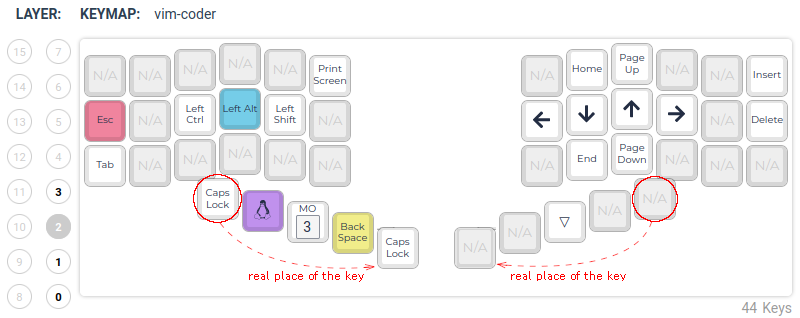
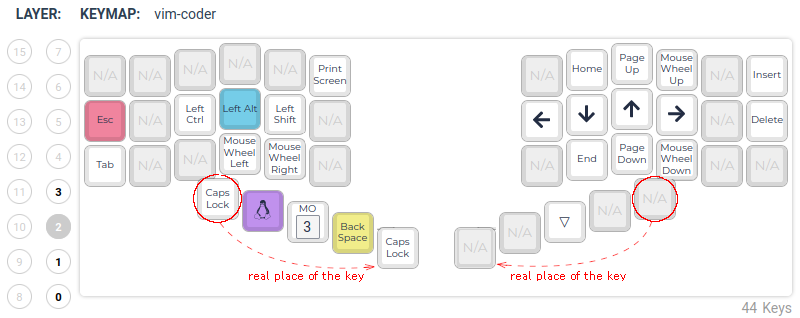
Add mouse wheel keys

Changed region(s): [[0.2812, 0.3962, 0.375, 0.5943], [0.8125, 0.4528, 0.875, 0.566], [0.8125, 0.1698, 0.875, 0.283]]

diff --git a/keyboards/elcantorhs/keymaps/vim-coder/keymap.c b/keyboards/elcantorhs/keymaps/vim-coder/keymap.c
@@ -16,15 +16,15 @@ const uint16_t PROGMEM keymaps[][MATRIX_ROWS][MATRIX_COLS] = {
                                        KC_NO,        KC_NO,        KC_TRNS,      KC_NO,   /* | */    KC_SPC,       MO(3),        KC_ENT,       KC_MINS
     ),
     [2] = LAYOUT(
-        KC_NO,          KC_NO,         KC_NO,        KC_NO,        KC_NO,        KC_PSCR, /* | */    KC_NO,        KC_HOME,      KC_PGUP,      KC_NO,        KC_NO,        KC_INS,
+        KC_NO,          KC_NO,         KC_NO,        KC_NO,        KC_NO,        KC_PSCR, /* | */    KC_NO,        KC_HOME,      KC_PGUP,      KC_WH_U,      KC_NO,        KC_INS,
         KC_ESC,         KC_NO,         KC_LCTL,      KC_LALT,      KC_LSFT,      KC_NO,   /* | */    KC_LEFT,      KC_DOWN,      KC_UP,        KC_RGHT,      KC_NO,        KC_DEL,
-        KC_TAB,         KC_NO,         KC_NO,        KC_NO,        KC_NO,        KC_NO,   /* | */    KC_NO,        KC_END,       KC_PGDN,      KC_NO,        KC_NO,        KC_NO,
+        KC_TAB,         KC_NO,         KC_NO,        KC_WH_L,      KC_WH_R,      KC_NO,   /* | */    KC_NO,        KC_END,       KC_PGDN,      KC_WH_D,      KC_NO,        KC_NO,
                                        KC_CAPS,      KC_LGUI,      MO(3),        KC_BSPC, /* | */    KC_NO,        KC_TRNS,      KC_NO,        KC_NO
     ),
     [3] = LAYOUT(
         KC_F1,          KC_F2,         KC_F3,        KC_F4,        KC_F5,        KC_F6,   /* | */    KC_F7,        KC_F8,        KC_F9,        KC_F10,       KC_F11,       KC_F12,
         KC_ESC,         KC_LGUI,       KC_LCTL,      KC_LALT,      KC_LSFT,      KC_NO,   /* | */    KC_NO,        KC_RSFT,      KC_RALT,      KC_RCTL,      KC_RGUI,      KC_NO,
         KC_TAB,         KC_NO,         KC_NO,        KC_NO,        KC_NO,        KC_NO,   /* | */    KC_NO,        KC_NO,        KC_NO,        KC_NO,        KC_NO,        KC_NO,
-                                       KC_NO,        KC_NO,        KC_TRNS,      KC_NO,   /* | */    KC_NO,        KC_TRNS,      KC_NO,        KC_NO
+                                       QK_BOOT,      KC_NO,        KC_TRNS,      KC_NO,   /* | */    KC_NO,        KC_TRNS,      KC_NO,        ANY(QK_RBT)
     )
 };
